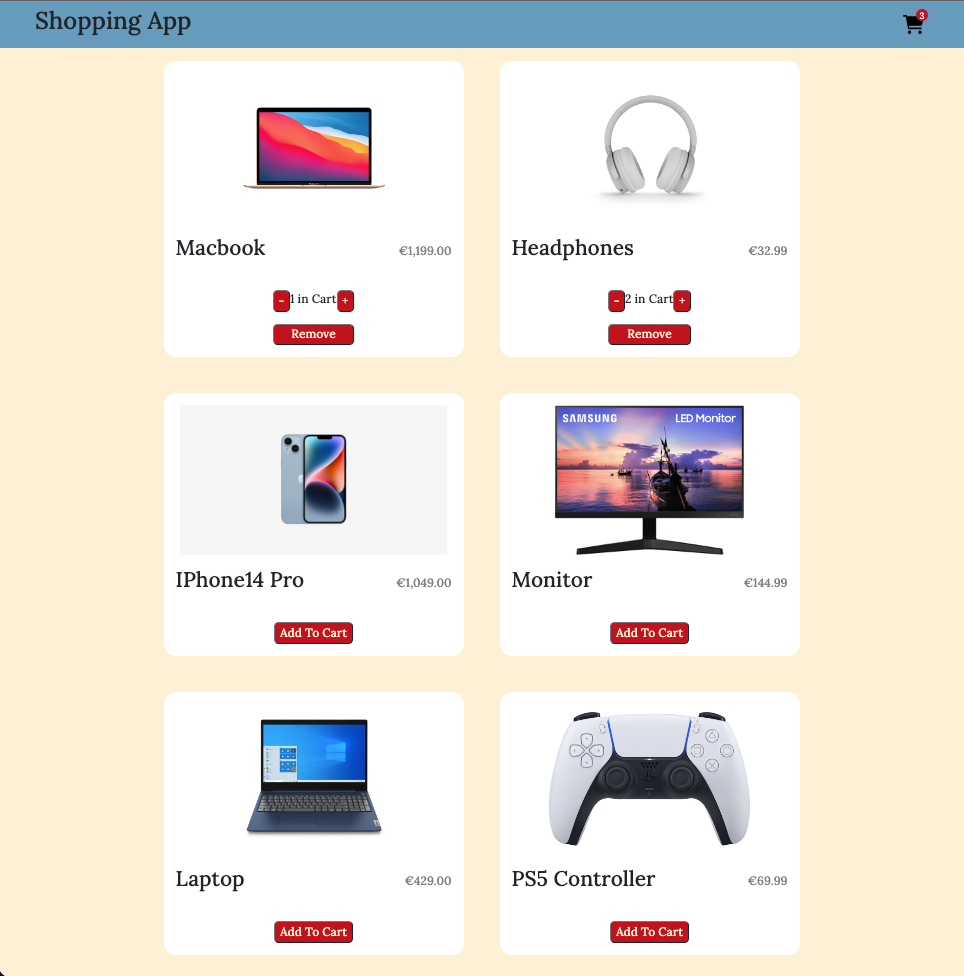
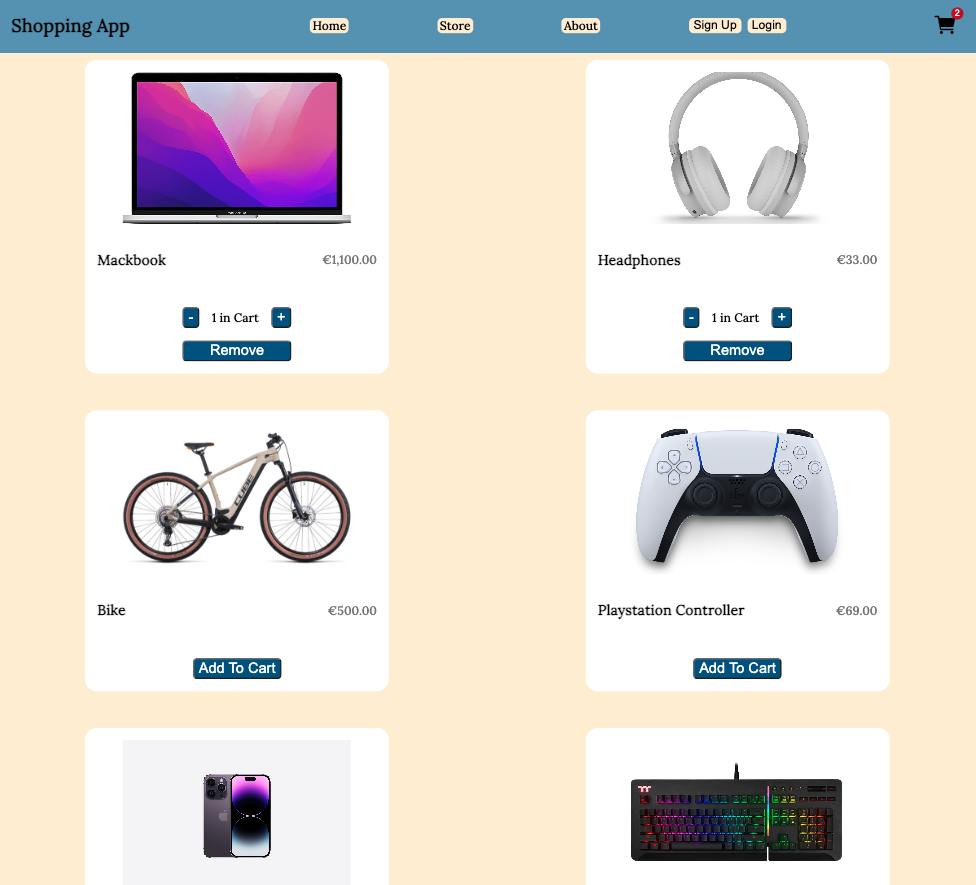
updated shopping app desctiption after macking it fullstack

diff --git a/src/components/Projects.js b/src/components/Projects.js
@@ -41,7 +41,7 @@ export default function Projects() {
         </div>
         <div className='project'>
         <a
-          href="https://shopping-app-typescript.netlify.app/"
+          href="https://shopping-app-typescript.netlify.app/store"
           target="_blank"
           rel="noreferrer"
         >
@@ -50,7 +50,7 @@ export default function Projects() {
            SHOPPING-CART APP
           </div>
           <p className="project-description">
-            A frontend typescript-react app to add or remove shopping items to/from the cart
+            A fullstack e-commerce app created with typescript-react 
           </p>
         </a>
         </div>

diff --git a/src/styles/_Query.scss b/src/styles/_Query.scss
@@ -63,12 +63,12 @@
 
         .projects-container {
             flex-wrap: wrap;
-                a {
-                    img {
-                        width: 160px;
-                    }
+            a {
+                img {
+                    width: 160px;
                 }
             }
+        }
     }
 
     .contact-container {

diff --git a/src/styles/_Projects.scss b/src/styles/_Projects.scss
@@ -10,6 +10,7 @@
         justify-content: space-around;
         flex-wrap: wrap;
         .project{
+            margin: 1rem;
             display: flex;
             justify-content: center;
         }
